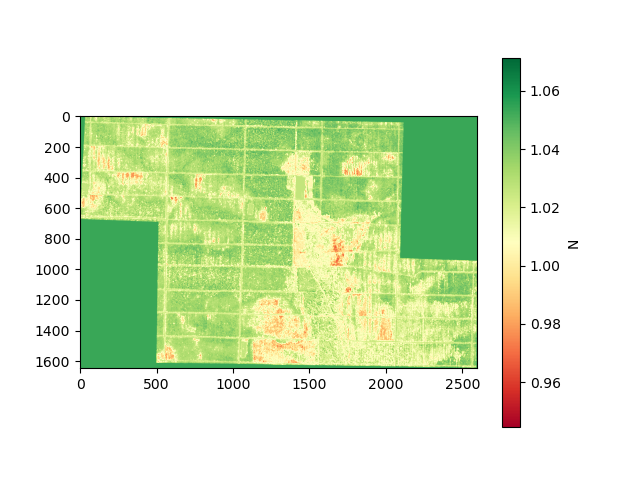
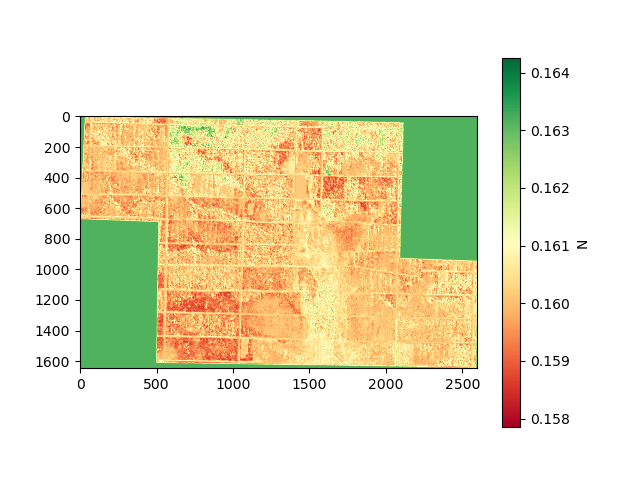
added updated

diff --git a/app.py b/app.py
@@ -34,7 +34,6 @@ def export_to_grayscale(input_image_path, output_image_path):
 
 if upload!='':
     raster = rasterio.open(upload)
-    print(raster.shape)
     bands = raster.read()
     red_band = bands[0].astype(float)
     nir_band = bands[3].astype(float)
@@ -54,9 +53,9 @@ if upload!='':
         predictions = model.predict(df)
         result = predictions.reshape(bands.shape[1:])
         image_save(result)
-        st.image('my_plot.png')
-        st.write(result)
         export_to_grayscale('my_plot.png', 'out.png')
+        st.image('out.png')
+        st.write(result)
 
         
     if PredictN:
@@ -66,7 +65,8 @@ if upload!='':
         predictions = model.predict(df)
         result = predictions.reshape(bands.shape[1:])
         image_save(result)
-        st.image('my_plot.png')
+        export_to_grayscale('my_plot.png', 'out.png')
+        st.image('out.png')
         st.write(result)
     if PredictP:
         st.subheader("Predicted values of P")
@@ -75,6 +75,7 @@ if upload!='':
         predictions = model.predict(df)
         result = predictions.reshape(bands.shape[1:])
         image_save(result)
-        st.image('my_plot.png')
+        export_to_grayscale('my_plot.png', 'out.png')
+        st.image('out.png')
         st.write(result)
         
